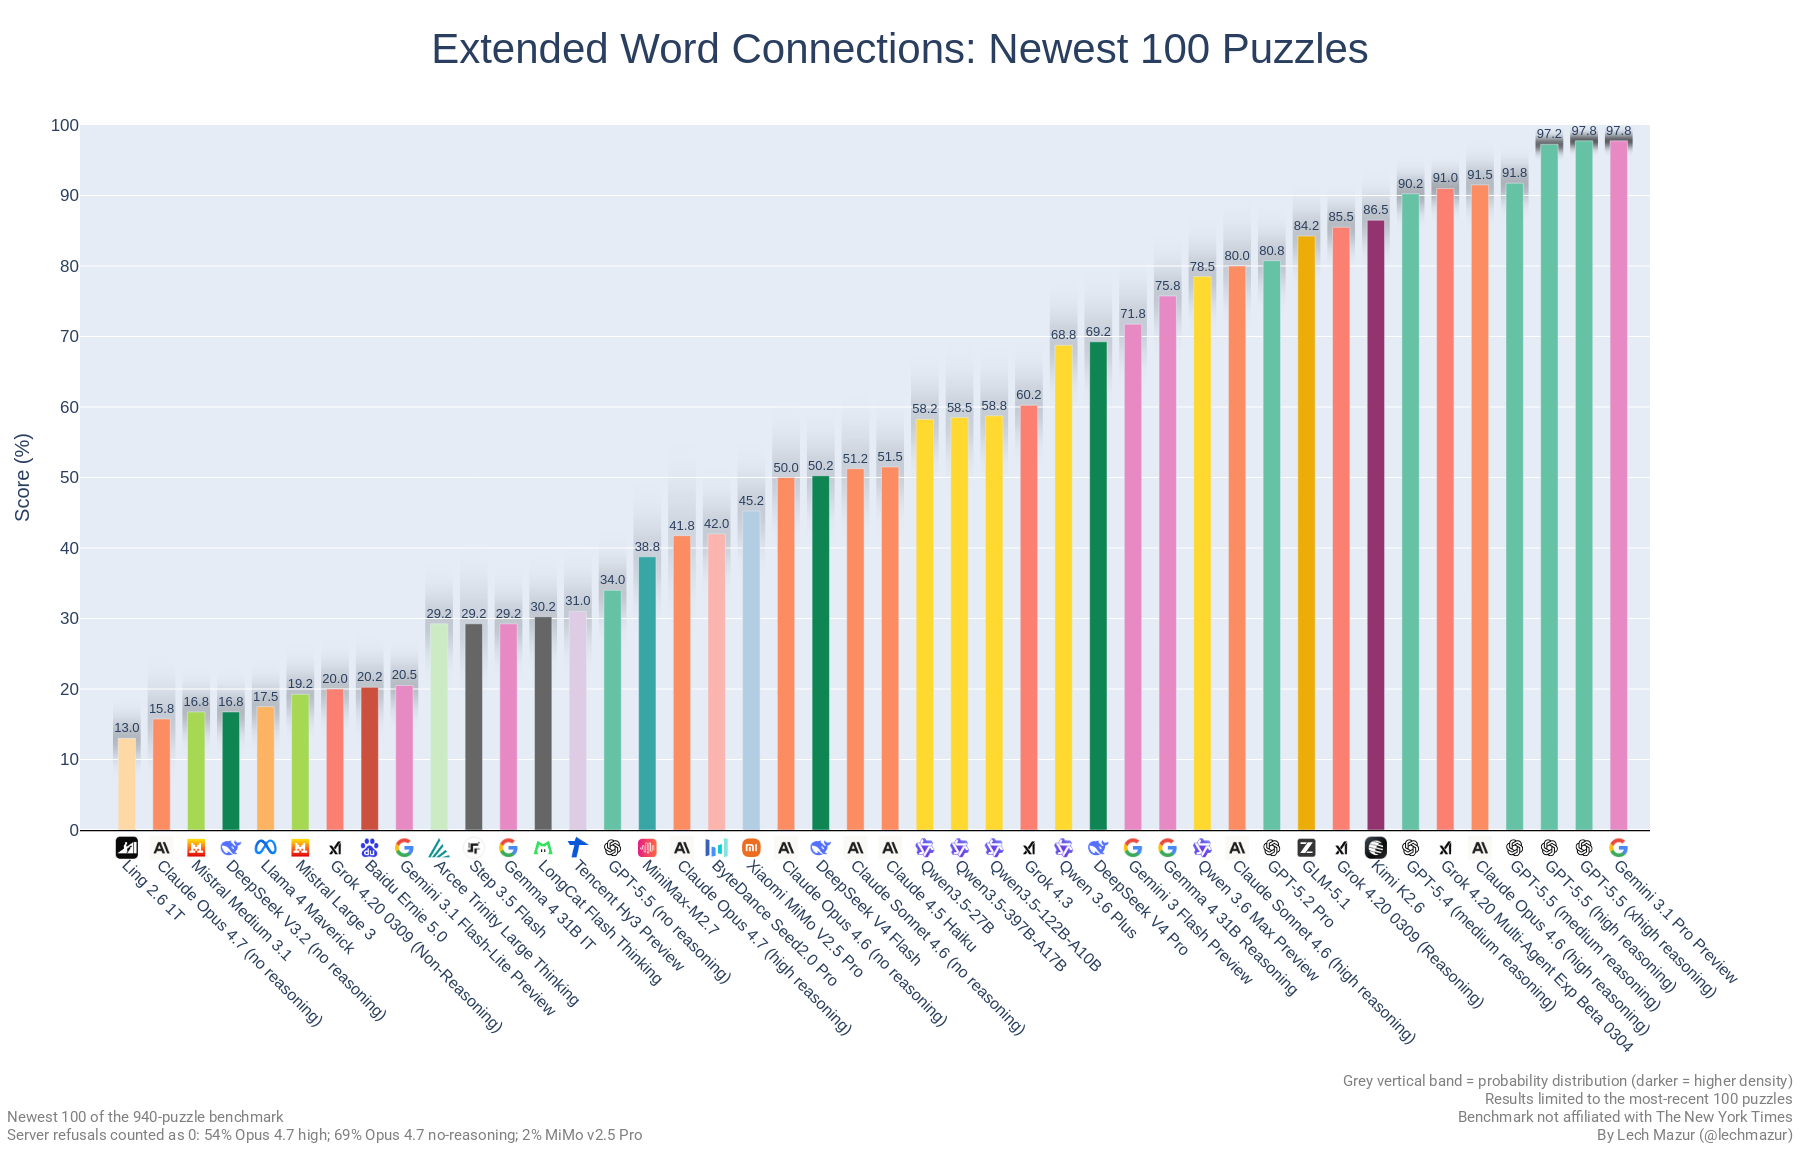
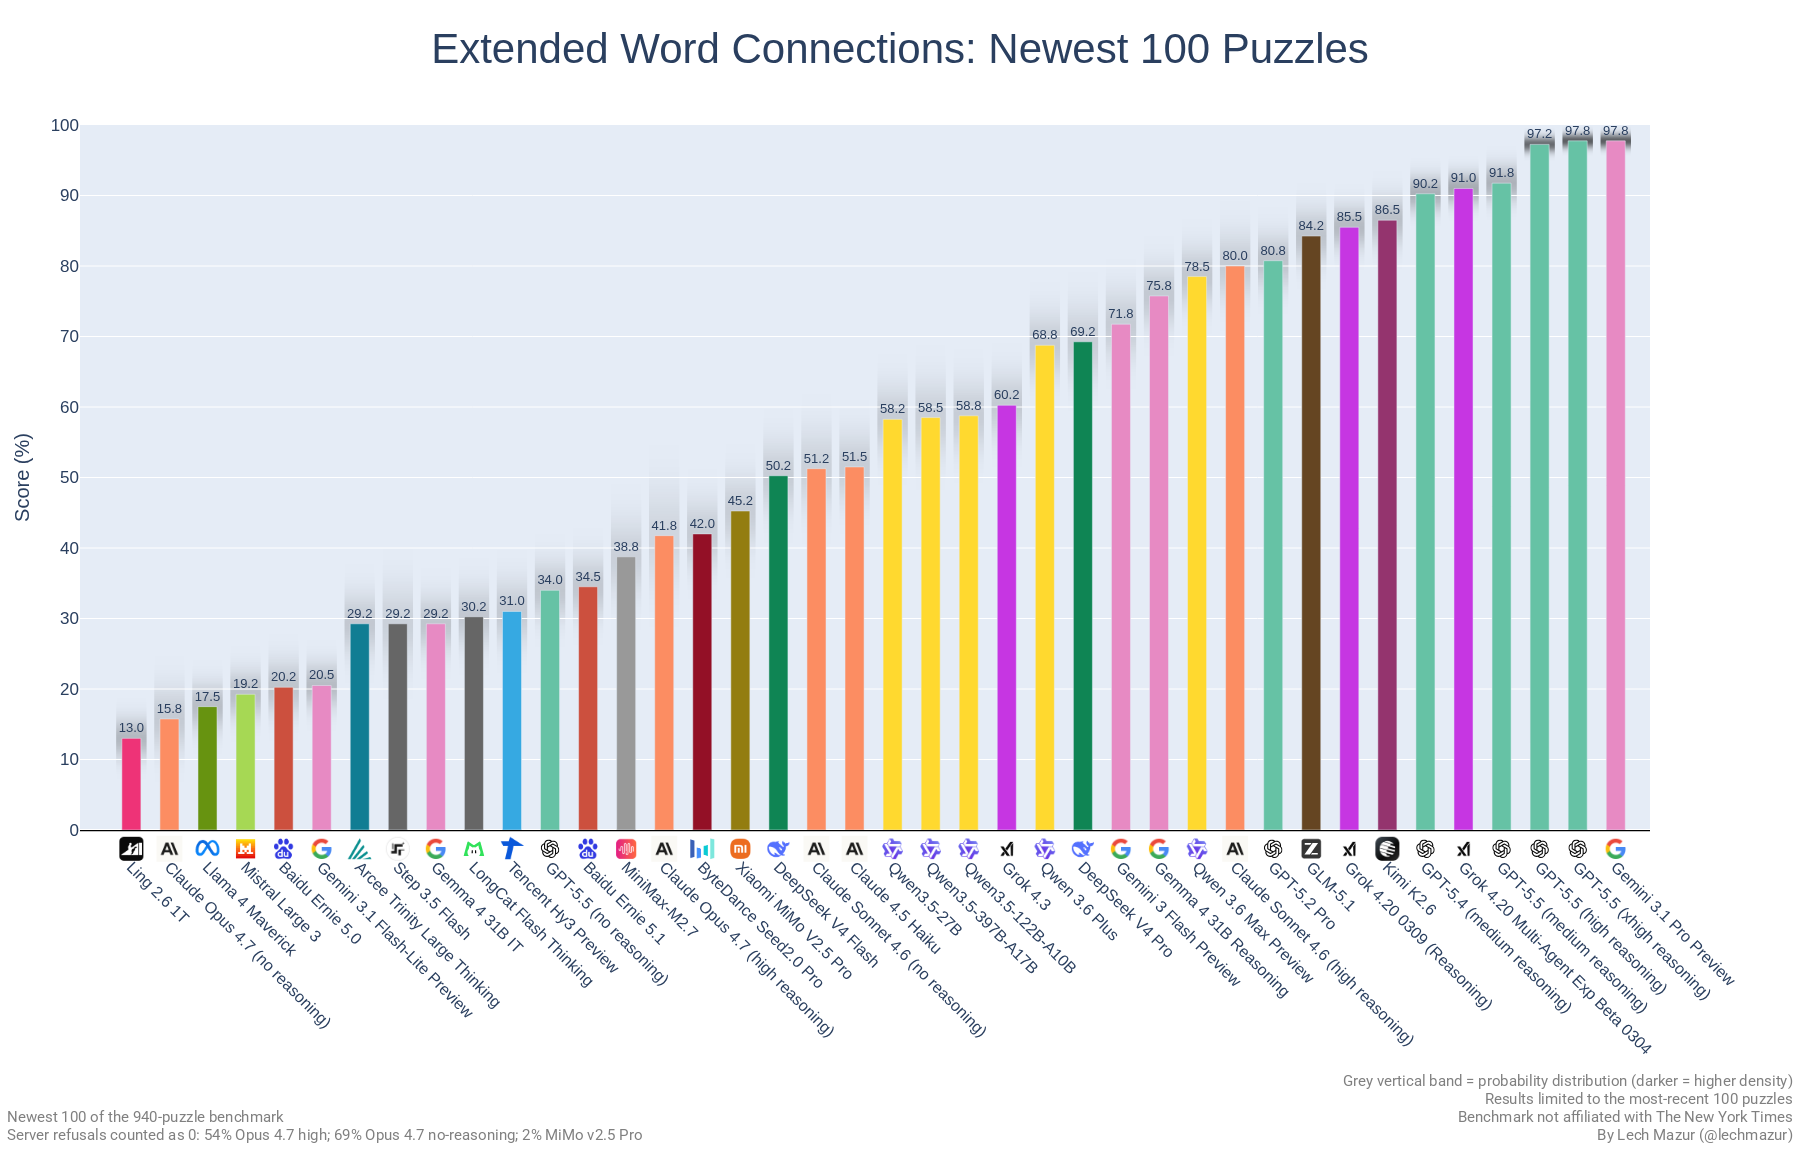
ERNIE 5.1

Changed region(s): [[0.0622, 0.0913, 0.9644, 0.913], [0.7467, 0.8522, 0.7778, 0.8826]]

diff --git a/README.md b/README.md
@@ -61,33 +61,34 @@ As of Feb 4, 2025, there is a new version of the benchmark. The standard NYT Con
 |47|ByteDance Seed2.0 Pro|42.1|940|
 |48|Claude Opus 4.7 (high reasoning)|41.0|940|
 |49|Xiaomi MiMo V2 Pro|41.0|940|
-|50|GPT-5.5 (no reasoning)|37.5|940|
-|51|Step 3.5 Flash|36.7|940|
-|52|MiniMax-M2.7|35.3|940|
-|53|GPT-5.4 (no reasoning)|32.8|940|
-|54|LongCat Flash Thinking|31.0|940|
-|55|Tencent Hy3 Preview|30.2|940|
-|56|Gemma 4 31B IT|30.1|940|
-|57|MiniMax-M2.5|29.6|940|
-|58|Arcee Trinity Large Thinking|29.5|940|
-|59|GPT-5.2 (no reasoning)|28.1|940|
-|60|MiniMax-M2|27.0|940|
-|61|Nemotron 3 Super|26.9|940|
-|62|Claude 4.5 Haiku|26.0|940|
-|63|Mistral Medium 3.5 High Reasoning|25.2|940|
-|64|Grok 4.1 Fast Non-Reasoning|25.1|940|
-|65|Qwen 3 Max Thinking|24.2|940|
-|66|MiniMax-M2.1|22.7|940|
-|67|Baidu Ernie 5.0|21.2|940|
-|68|Gemini 3.1 Flash-Lite Preview|19.7|940|
-|69|Grok 4.20 0309 (Non-Reasoning)|19.2|940|
-|70|Llama 4 Maverick|18.4|940|
-|71|DeepSeek V3.2 (no reasoning)|17.8|940|
-|72|Grok 4.20 Non-Reasoning Exp Beta 0304|17.6|940|
-|73|Mistral Large 3|17.2|940|
-|74|Mistral Medium 3.1|15.5|940|
-|75|Claude Opus 4.7 (no reasoning)|15.3|940|
-|76|Ling 2.6 1T|10.8|940|
+|50|Baidu Ernie 5.1|38.5|940|
+|51|GPT-5.5 (no reasoning)|37.5|940|
+|52|Step 3.5 Flash|36.7|940|
+|53|MiniMax-M2.7|35.3|940|
+|54|GPT-5.4 (no reasoning)|32.8|940|
+|55|LongCat Flash Thinking|31.0|940|
+|56|Tencent Hy3 Preview|30.2|940|
+|57|Gemma 4 31B IT|30.1|940|
+|58|MiniMax-M2.5|29.6|940|
+|59|Arcee Trinity Large Thinking|29.5|940|
+|60|GPT-5.2 (no reasoning)|28.1|940|
+|61|MiniMax-M2|27.0|940|
+|62|Nemotron 3 Super|26.9|940|
+|63|Claude 4.5 Haiku|26.0|940|
+|64|Mistral Medium 3.5 (high)|25.2|940|
+|65|Grok 4.1 Fast Non-Reasoning|25.1|940|
+|66|Qwen 3 Max Thinking|24.2|940|
+|67|MiniMax-M2.1|22.7|940|
+|68|Baidu Ernie 5.0|21.2|940|
+|69|Gemini 3.1 Flash-Lite Preview|19.7|940|
+|70|Grok 4.20 0309 (Non-Reasoning)|19.2|940|
+|71|Llama 4 Maverick|18.4|940|
+|72|DeepSeek V3.2 (no reasoning)|17.8|940|
+|73|Grok 4.20 Non-Reasoning Exp Beta 0304|17.6|940|
+|74|Mistral Large 3|17.2|940|
+|75|Mistral Medium 3.1|15.5|940|
+|76|Claude Opus 4.7 (no reasoning)|15.3|940|
+|77|Ling 2.6 1T|10.8|940|
 
 ---
 ## Model comparison scatter charts
@@ -328,6 +329,7 @@ These models are excluded from the main board because they ran fewer than 940 to
 ---
 
 ## Updates
+- May 12, 2026: Baidu ERNIE 5.1 added
 - May 1, 2026: Grok 4.3 added
 - April 29, 2026: Mistral Medium 3.5, Nemotron 3 Super added
 - April 25, 2026: GPT-5.5, Kimi K2.6, Ling 2.6 1T, Tencent Hy3 Preview, DeepSeek V4 Pro, DeepSeek V4 Flash, Qwen 3.6 Max Preview added.